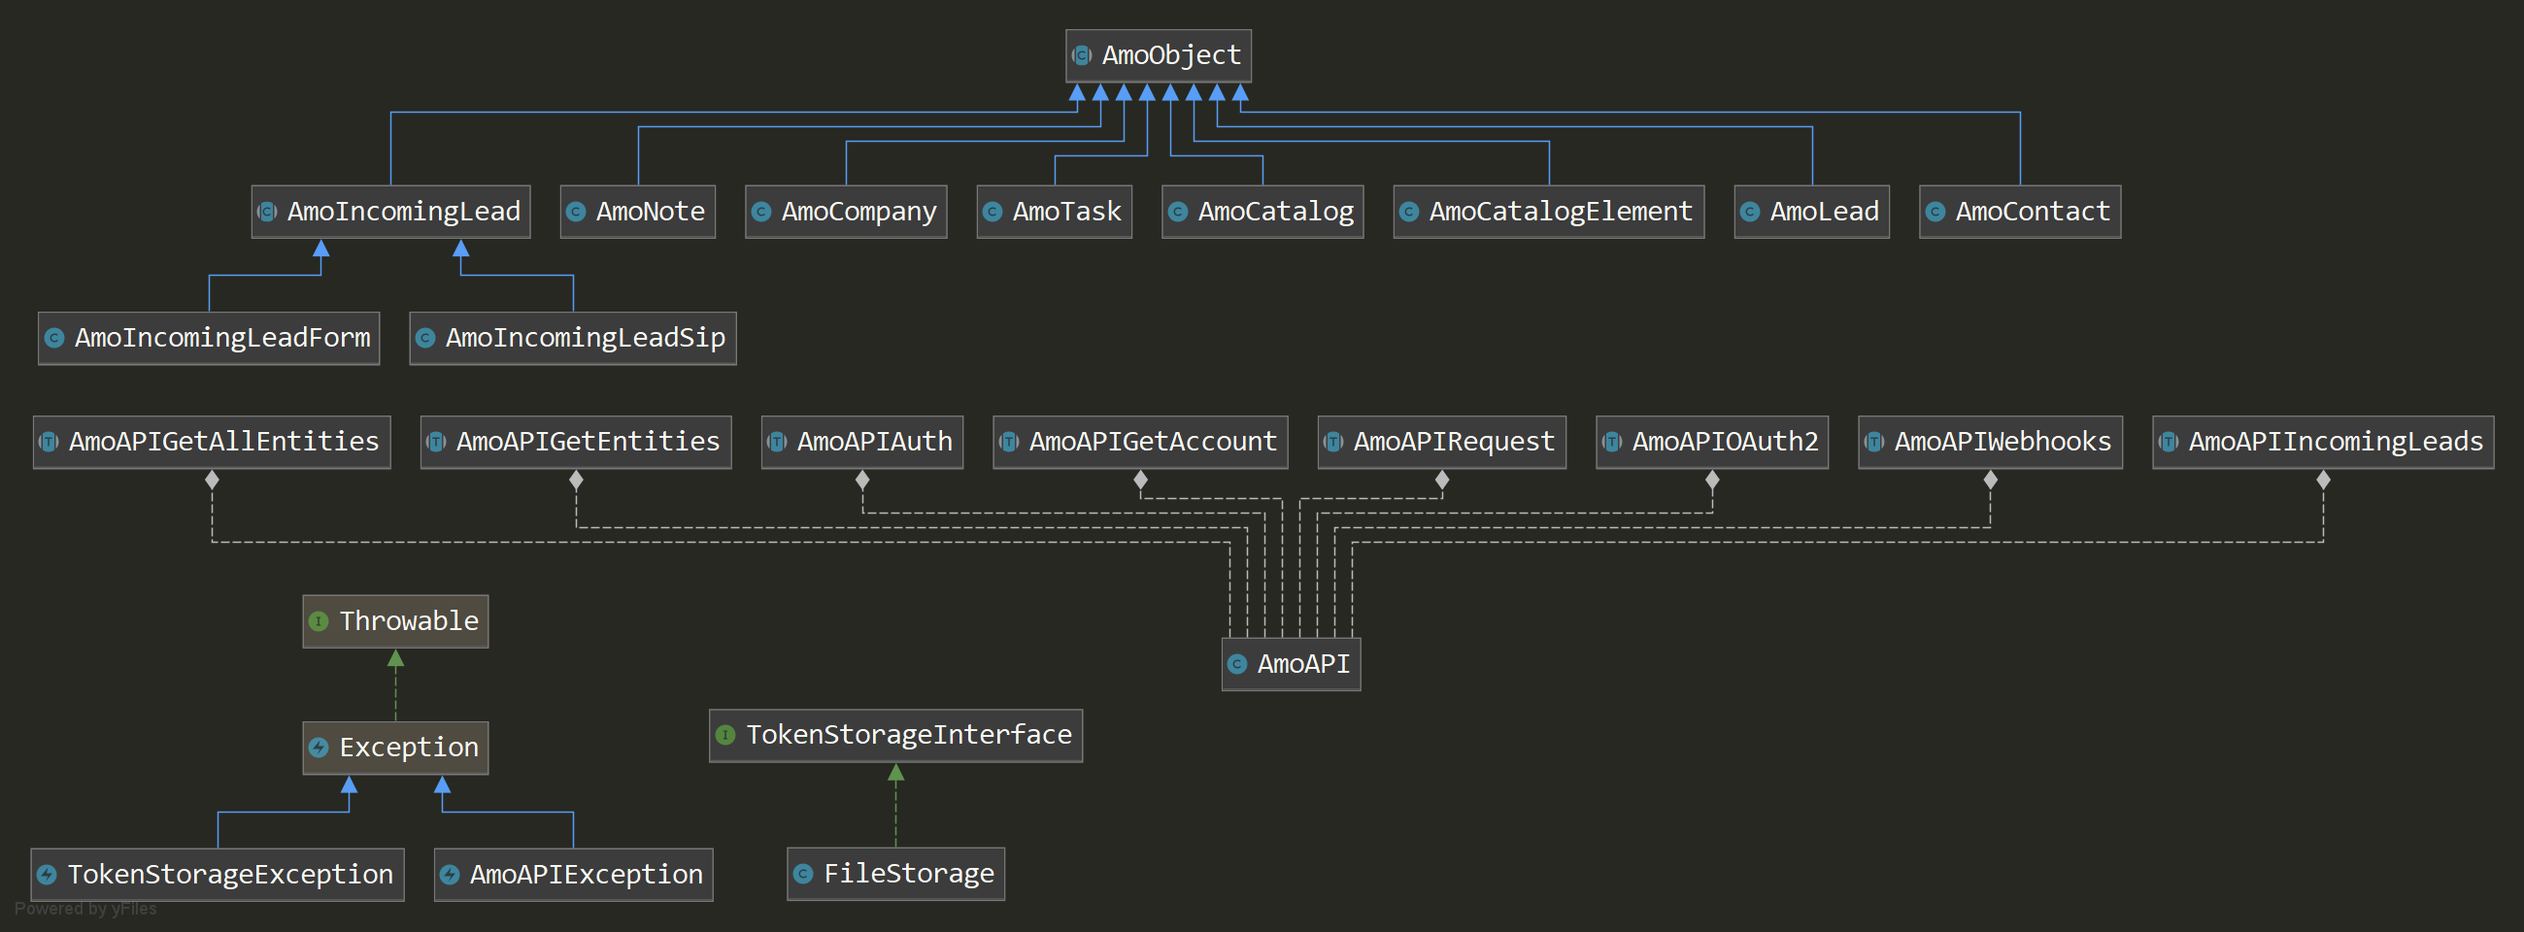
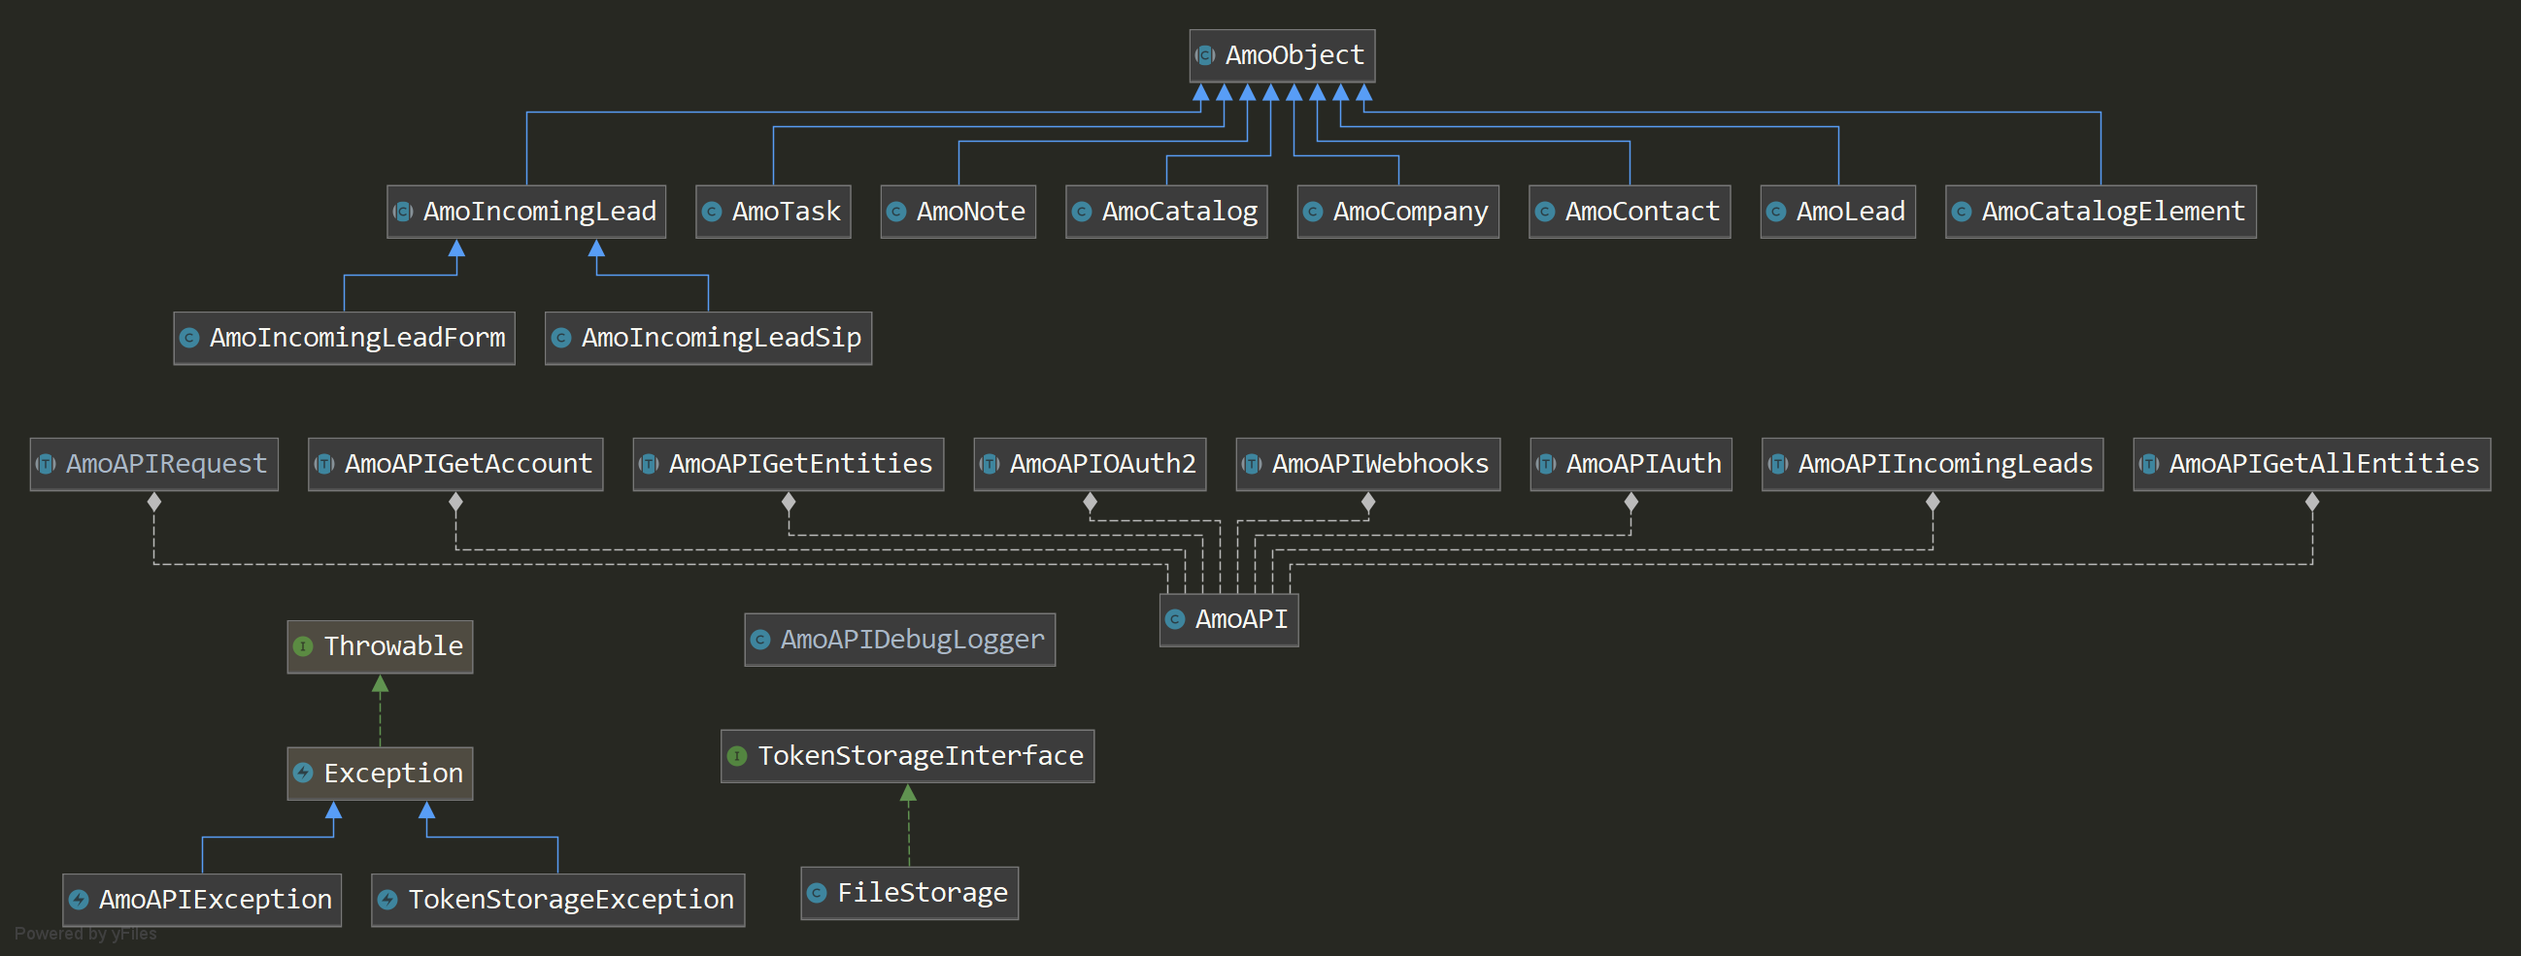
Add support for PSR-3 logger

diff --git a/src/AmoCRM/AmoAPIRequest.php b/src/AmoCRM/AmoAPIRequest.php
@@ -7,7 +7,7 @@
  * @see https://github.com/andrey-tech/amocrm-api-php
  * @license   MIT
  *
- * @version 2.9.3
+ * @version 2.10.0
  *
  * v1.0.0 (24.04.2019) Первоначальная версия
  * v1.1.0 (05.07.2019) Добавлен обработчик ошибки 401 Unautorized
@@ -37,6 +37,7 @@
  * v2.9.1 (15.07.2020) Метод getAmoDomain() теперь публичный
  * v2.9.2 (19.07.2020) Исправлено сообщение об ошибке с кодом 244
  * v2.9.3 (07.08.2020) Сообщение об ошибке дополнено параметрами запроса
+ * v2.10.0 (16.08.2020) Добавлена поддержка для класса, выполняющего логирование запросов/ответов к API
  *
  */
 
@@ -53,11 +54,10 @@ trait AmoAPIRequest
     public static $debug = false;
 
     /**
-     * Лог файл для сохранения отладочной информации (относительно каталога файла класса AmoAPI)
-     * (null - вывод в STDOUT)
-     * @var string|null
+     * Объект класса, выполняющего логирование запросов/ответов к API
+     * @var object
      */
-    public static $debugLogFile = 'logs/debug.log';
+    public static $debugLogger;
 
     /**
      * Максимальное число запросов к amoCRM API в секунду
@@ -245,6 +245,7 @@ trait AmoAPIRequest
      * @param resource $curl Ресурс cURL
      * @param string $subdomain Поддомен amoCRM
      * @return void
+     * @throws AmoAPIException
      */
     protected static function setDefaultCurlOptions($curl, string $subdomain)
     {
@@ -288,6 +289,7 @@ trait AmoAPIRequest
      * @param array $params Параметры запроса
      * @param string|null $subdomain Поддомен amoCRM
      * @return array|null
+     * @throws AmoAPIException
      */
     public static function request(string $query, string $type = 'GET', array $params = [], $subdomain = null)
     {
@@ -559,9 +561,7 @@ trait AmoAPIRequest
 
         self::$lastRequestTime = microtime(true);
 
-        $result = curl_exec($curl);
-
-        return $result;
+        return curl_exec($curl);
     }
 
     /**
@@ -590,6 +590,7 @@ trait AmoAPIRequest
      * Проверяет наличие каталога для сохранения файла и создает каталог при его отсутствии рекурсивно
      * @param string $directory Полный путь к каталогу
      * @return void
+     * @throws AmoAPIException
      */
     protected static function checkDir(string $directory)
     {
@@ -621,33 +622,20 @@ trait AmoAPIRequest
      */
     protected static function debug(string $message = '')
     {
-        // Выходим, если отладочный режим выключен
-        if (! self::$debug) {
-            return;
-        }
-
-        // Формируем строку времени логгирования
         $dateTime = \DateTime::createFromFormat('U.u', sprintf('%.f', microtime(true)));
         $timeZone = new \DateTimeZone(date_default_timezone_get());
         $dateTime->setTimeZone($timeZone);
-        $timeString = $dateTime->format('Y-m-d H:i:s,u P');
+        $timeString = $dateTime->format('Y-m-d H:i:s.u P');
 
         $uniqId = self::getUniqId();
         $message = "*** {$uniqId} [{$timeString}]" . PHP_EOL . $message . PHP_EOL . PHP_EOL;
 
-        // Если лог файл не указан, то вывод в STDOUT
-        if (empty(self::$debugLogFile)) {
+        if (self::$debug) {
             echo $message;
-            return;
         }
 
-        // Формируем полное имя лог файла
-        $debugLogFile = dirname(__FILE__) . DIRECTORY_SEPARATOR . self::$debugLogFile;
-        self::checkDir(dirname($debugLogFile));
-
-        // Записываем сообщение в лог файл
-        if (! file_put_contents($debugLogFile, $message, FILE_APPEND|LOCK_EX)) {
-            throw new AmoAPIException("Не удалось записать в лог файл " . $debugLogFile);
+        if (isset(self::$debugLogger)) {
+            self::$debugLogger->debug($message);
         }
     }
 
@@ -666,8 +654,9 @@ trait AmoAPIRequest
 
     /**
      * Выполняет блокировку сущности при обновлении (update) методом AmoObject::save()
-     * @param  object $amoObject Объект \AmoCRM\AmoObject
+     * @param object $amoObject Объект \AmoCRM\AmoObject
      * @return array|null
+     * @throws AmoAPIException
      */
     public static function lockEntity($amoObject)
     {
@@ -717,8 +706,9 @@ trait AmoAPIRequest
 
     /**
      * Выполняет разблокировку сущности при обновлении (update) методом AmoObject::save()
-     * @param  array|null $lock Параметры блокировки сущности
+     * @param array|null $lock Параметры блокировки сущности
      * @return void
+     * @throws AmoAPIException
      */
     public static function unlockEntity($lock)
     {

diff --git a/src/AmoCRM/AmoAPIDebugLogger.php b/src/AmoCRM/AmoAPIDebugLogger.php
@@ -1,0 +1,68 @@
+<?php
+/**
+ * Класc AmoAPIDebugLogger. Простой логгер запросов/ответов к API amoCRM
+ *
+ * @author    andrey-tech
+ * @copyright 2020 andrey-tech
+ * @see https://github.com/andrey-tech/amocrm-api-php
+ * @license   MIT
+ *
+ * @version 1.0.0
+ *
+ * v1.0.0 (16.08.2020) Первоначальная версия
+ *
+ */
+
+declare(strict_types = 1);
+
+namespace AmoCRM;
+
+use AmoCRM\AmoAPI;
+
+class AmoAPIDebugLogger
+{
+    /**
+     * Лог файл для сохранения отладочной информации
+     * @var string
+     */
+    protected $logFile;
+
+    /**
+     * Конструктор
+     * @param string $logFile Лог файл для сохранения отладочной информации
+     */
+    public function __construct(string $logFile = 'logs/debug.log')
+    {
+        $this->logFile = dirname(__FILE__) . DIRECTORY_SEPARATOR . $logFile;
+        $this->checkDir(dirname($this->logFile));
+    }
+
+    /**
+     * Сохраняет отладочное сообщение
+     * @param string $message Текст сообщения
+     * @return void
+     * @throws AmoAPIException
+     */
+    public function debug(string $message)
+    {
+        if (! file_put_contents($this->logFile, $message, FILE_APPEND|LOCK_EX)) {
+            throw new AmoAPIException("Не удалось записать в лог файл {$this->logFile}");
+        }
+    }
+
+    /**
+     * Проверяет наличие каталога для сохранения файла и создает каталог при его отсутствии рекурсивно
+     * @param string $directory Полный путь к каталогу
+     * @return void
+     */
+    protected function checkDir(string $directory)
+    {
+        if (is_dir($directory)) {
+            return;
+        }
+
+        if (! mkdir($directory, $mode = 0755, $recursive = true)) {
+            throw new AmoAPIException("Не удалось рекурсивно создать каталог: {$directory}");
+        }
+    }
+}

diff --git a/README.md b/README.md
@@ -7,7 +7,7 @@
 
 Обертка на PHP7+ для работы с REST API [amoCRM](https://www.amocrm.ru) **v2** с авторизацией по протоколу oAuth 2.0
 или по API-ключу пользователя, троттлингом запросов к API, блокировкой одновременного обновления одной сущности
-и логированием в файл.
+и логированием запросов/ответов к API в файл.
 
 Данная библиотека была создана для удовлетворения
 [новых требований amoCRM](https://www.amocrm.ru/developers/content/integrations/requirements),
@@ -87,6 +87,7 @@
     - [Дополнительные методы](#%D0%94%D0%BE%D0%BF%D0%BE%D0%BB%D0%BD%D0%B8%D1%82%D0%B5%D0%BB%D1%8C%D0%BD%D1%8B%D0%B5-%D0%BC%D0%B5%D1%82%D0%BE%D0%B4%D1%8B)
 - [Блокировка одновременного обновления одной сущности](#%D0%91%D0%BB%D0%BE%D0%BA%D0%B8%D1%80%D0%BE%D0%B2%D0%BA%D0%B0-%D0%BE%D0%B4%D0%BD%D0%BE%D0%B2%D1%80%D0%B5%D0%BC%D0%B5%D0%BD%D0%BD%D0%BE%D0%B3%D0%BE-%D0%BE%D0%B1%D0%BD%D0%BE%D0%B2%D0%BB%D0%B5%D0%BD%D0%B8%D1%8F-%D0%BE%D0%B4%D0%BD%D0%BE%D0%B9-%D1%81%D1%83%D1%89%D0%BD%D0%BE%D1%81%D1%82%D0%B8)
 - [Троттлинг запросов к API](#%D0%A2%D1%80%D0%BE%D1%82%D1%82%D0%BB%D0%B8%D0%BD%D0%B3-%D0%B7%D0%B0%D0%BF%D1%80%D0%BE%D1%81%D0%BE%D0%B2-%D0%BA-api)
+- [Отладочный режим и логирование](#%D0%9E%D1%82%D0%BB%D0%B0%D0%B4%D0%BE%D1%87%D0%BD%D1%8B%D0%B9-%D1%80%D0%B5%D0%B6%D0%B8%D0%BC-%D0%B8-%D0%BB%D0%BE%D0%B3%D0%B8%D1%80%D0%BE%D0%B2%D0%B0%D0%BD%D0%B8%D0%B5)
 - [Обработка ошибок](#%D0%9E%D0%B1%D1%80%D0%B0%D0%B1%D0%BE%D1%82%D0%BA%D0%B0-%D0%BE%D1%88%D0%B8%D0%B1%D0%BE%D0%BA)
 - [Примеры](#%D0%9F%D1%80%D0%B8%D0%BC%D0%B5%D1%80%D1%8B)
     - [Работа с контактами](#%D0%A0%D0%B0%D0%B1%D0%BE%D1%82%D0%B0-%D1%81-%D0%BA%D0%BE%D0%BD%D1%82%D0%B0%D0%BA%D1%82%D0%B0%D0%BC%D0%B8)
@@ -99,6 +100,7 @@
     - [Работа с webhooks](#%D0%A0%D0%B0%D0%B1%D0%BE%D1%82%D0%B0-%D1%81-webhooks)
     - [Работа с заявками из неразобранного](#%D0%A0%D0%B0%D0%B1%D0%BE%D1%82%D0%B0-%D1%81-%D0%B7%D0%B0%D1%8F%D0%B2%D0%BA%D0%B0%D0%BC%D0%B8-%D0%B8%D0%B7-%D0%BD%D0%B5%D1%80%D0%B0%D0%B7%D0%BE%D0%B1%D1%80%D0%B0%D0%BD%D0%BD%D0%BE%D0%B3%D0%BE)
     - [Работа с несколькими поддоменами](#%D0%A0%D0%B0%D0%B1%D0%BE%D1%82%D0%B0-%D1%81-%D0%BD%D0%B5%D1%81%D0%BA%D0%BE%D0%BB%D1%8C%D0%BA%D0%B8%D0%BC%D0%B8-%D0%BF%D0%BE%D0%B4%D0%B4%D0%BE%D0%BC%D0%B5%D0%BD%D0%B0%D0%BC%D0%B8)
+    - [Отладка и логирование](#%D0%9E%D1%82%D0%BB%D0%B0%D0%B4%D0%BA%D0%B0-%D0%B8-%D0%BB%D0%BE%D0%B3%D0%B8%D1%80%D0%BE%D0%B2%D0%B0%D0%BD%D0%B8%D0%B5)
 - [UML-диаграмма классов](#uml-%D0%B4%D0%B8%D0%B0%D0%B3%D1%80%D0%B0%D0%BC%D0%BC%D0%B0-%D0%BA%D0%BB%D0%B0%D1%81%D1%81%D0%BE%D0%B2)
 - [Автор](#%D0%90%D0%B2%D1%82%D0%BE%D1%80)
 - [Лицензия](#%D0%9B%D0%B8%D1%86%D0%B5%D0%BD%D0%B7%D0%B8%D1%8F)
@@ -353,8 +355,8 @@ try {
 
 Свойство                | По умолчанию | Описание
 ----------------------- | ------------ | --------
-`$debug`                | false        | Включает отладочный режим с сохранением запросов и ответов в лог файл или выводом в STDOUT
-`$debugLogFile`         | logs/debug.log | Устанавливает лог файл отладочного режима (null - вывод в STDOUT)
+`$debug`                | false        | Включает отладочный режим с выводом запросов/ответов в API в STDOUT
+`$debugLogger`          | null         | Устанавливает объект класса, выполняющего логирование и реализующего стандарт [PSR-3](https://www.php-fig.org/psr/psr-3/)
 `$throttle`             | 7            | Устанавливает максимальное число запросов к API amoCRM в секунду ([не более 7 запросов в секунду](https://www.amocrm.ru/developers/content/api/recommendations))
 `$verifySSLCerfificate` | true         | Включает проверку SSL/TLS-сертификата сервера amoCRM
 `$SSLCertificateFile`   | 'cacert.pem' | Устанавливает файл SSL/TLS-сертификатов X.509 корневых удостоверяющих центров (CA) в формате РЕМ (null - использовать файл, указанный в параметре curl.cainfo файла php.ini)
@@ -701,6 +703,21 @@ try {
 основанный на вычислении времени, прошедшего с момента отправки последнего запроса к API, и приостановке процесса 
 до истечения `1/AmoAPI::$throttle` секунд.
 
+<a id="%D0%9E%D1%82%D0%BB%D0%B0%D0%B4%D0%BE%D1%87%D0%BD%D1%8B%D0%B9-%D1%80%D0%B5%D0%B6%D0%B8%D0%BC-%D0%B8-%D0%BB%D0%BE%D0%B3%D0%B8%D1%80%D0%BE%D0%B2%D0%B0%D0%BD%D0%B8%D0%B5"></a>
+## Отладочный режим и логирование
+
+При включении отладочного режима `AmoAPI::$debug = true` информация о каждом запросе/ответе к API amoCRM выводится в STDOUT.  
+
+Для логирования каждого запроса/ответа к API amoCRM может быть использован произвольный класс-логгер, реализующий стандарт [PSR-3](https://www.php-fig.org/psr/psr-3/),
+или простейший класс-логгер `AmoAPIDebugLogger`. Объект класса-логгера устанавливается в свойстве `AmoAPI::$debugLogger`.
+Логирование выполняется независимо от состояния отладочного режима `AmoAPI::$debug`.
+При каждом запросе/ответе к API в классе-логгере вызывается метод `debug()`.  
+
+В конструктор класса `AmoAPIDebugLogger` может быть передано имя лог-файла:
+
+- `__construct(string $logFile = 'logs/debug.log')`
+    + `$logFile` - лог-файл.
+
 <a id="%D0%9E%D0%B1%D1%80%D0%B0%D0%B1%D0%BE%D1%82%D0%BA%D0%B0-%D0%BE%D1%88%D0%B8%D0%B1%D0%BE%D0%BA"></a>
 ## Обработка ошибок
 
@@ -710,6 +727,7 @@ try {
 - `getErrors() :array` Возвращает массив сообщений об ошибках (errors) из ответа сервера amoCRM;
 - `getItems() :array` Возвращает массив параметров сущностей (items) из ответа сервера amoCRM.
 
+
 <a id="%D0%9F%D1%80%D0%B8%D0%BC%D0%B5%D1%80%D1%8B"></a>
 ## Примеры
 
@@ -718,9 +736,6 @@ try {
 
 ```php
 use AmoCRM\{AmoAPI, AmoContact, AmoAPIException};
-
-// Включение отладочного режима с сохранение запросов и ответов в лог файл
-AmoAPI::$debug = true;
 
 try {
     // Авторизация
@@ -1557,6 +1572,29 @@ try {
     printf('Ошибка (%d): %s' . PHP_EOL, $e->getCode(), $e->getMessage());
 }
 ```
+
+<a id="%D0%9E%D1%82%D0%BB%D0%B0%D0%B4%D0%BA%D0%B0-%D0%B8-%D0%BB%D0%BE%D0%B3%D0%B8%D1%80%D0%BE%D0%B2%D0%B0%D0%BD%D0%B8%D0%B5"></a>
+### Отладка и логирование
+
+```php
+use AmoCRM\{AmoAPI, AmoAPIDebugLogger, AmoAPIException};
+
+try {
+    // Включение вывода запросов/ответов к API в STDOUT
+    AmoAPI::$debug = true;
+
+    // Включение логирования запросов/ответов к API в файл
+    AmoAPI::$debugLogger = new AmoAPIDebugLogger($logFile = 'logs/debug_amocrm_api.log');
+
+    // Авторизация
+    $subdomain = 'testsubdomain';
+    AmoAPI::oAuth2($subdomain);
+
+} catch (AmoAPIException $e) {
+    printf('Ошибка (%d): %s' . PHP_EOL, $e->getCode(), $e->getMessage());
+}
+```
+
 
 <a id="uml-%D0%B4%D0%B8%D0%B0%D0%B3%D1%80%D0%B0%D0%BC%D0%BC%D0%B0-%D0%BA%D0%BB%D0%B0%D1%81%D1%81%D0%BE%D0%B2"></a>
 ## UML-диаграмма классов
